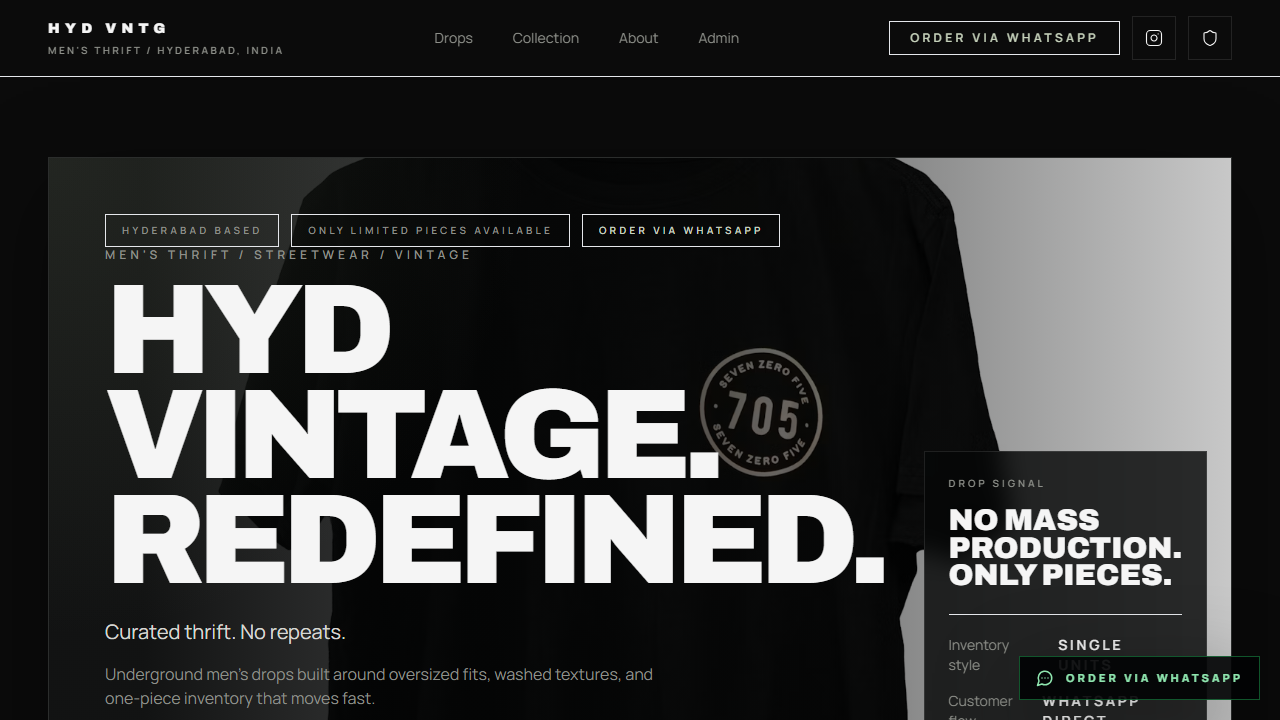
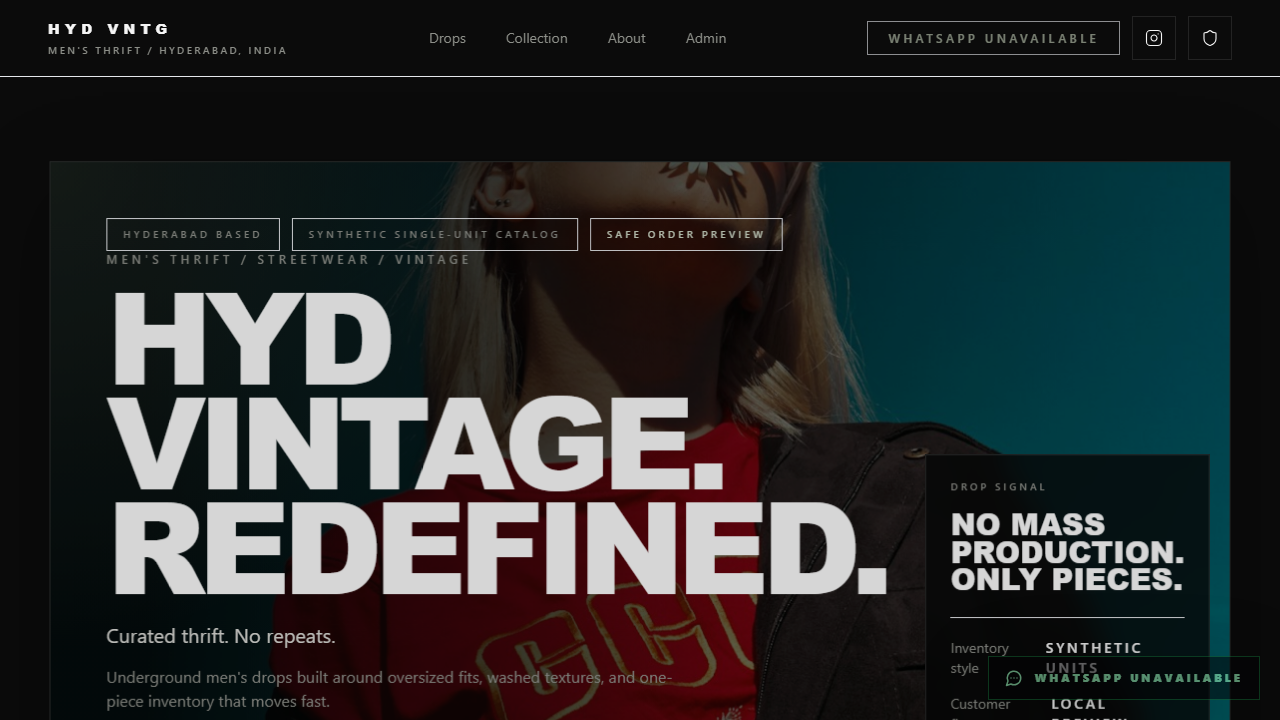
feat: synchronize HYD VNTG v1.0.0 evidence

diff --git a/lib/projects.ts b/lib/projects.ts
@@ -303,25 +303,25 @@ const source: Project[] = [
   {
     slug: "hyd-vntg-storefront",
     displayName: "HYD VNTG Storefront",
-    shortDescription: "A responsive vintage storefront prototype with fail-closed local demo administration.",
-    problem: "Small catalog concepts need a coherent browsing and cart experience without fake payment claims.",
-    targetUser: "Shoppers evaluating a frontend catalog prototype.",
-    solution: "A responsive React storefront with catalog, cart, and explicitly local/demo admin configuration.",
-    contribution: "Built the storefront and removed default credentials, fixed dependencies, verified the build, and packaged real video evidence.",
-    status: "Supporting prototype",
-    technologies: ["React", "Vite", "JavaScript"],
-    categories: ["Full Stack"],
+    shortDescription: "A responsive synthetic streetwear storefront with a safe local order preview and fail-closed provider boundaries.",
+    problem: "Small catalog prototypes need a credible browse-to-order workflow without implying payment, inventory, or messaging integrations are live.",
+    targetUser: "Reviewers evaluating a bounded storefront and order-preparation workflow.",
+    solution: "A responsive React storefront with deterministic single-unit fixtures, local product media, an explicit not-sent message preview, and optional provider adapters that stay disabled until configured.",
+    contribution: "Built and qualified the storefront workflow, removed placeholder handoffs, hardened local and Supabase admin boundaries, added deterministic tests, and published narrated release evidence.",
+    status: "v1.0.0 released storefront prototype",
+    technologies: ["React", "Vite", "JavaScript", "Vitest", "Playwright", "Supabase (optional)"],
+    categories: ["Full Stack", "Security"],
     repositoryUrl: `${owner}/hyd-vntg-storefront`,
     video: media("hyd-vntg"),
     videoPoster: "/assets/projects/hyd-vntg-storefront.png",
-    architecture: ["React client", "Local demo store"],
-    workflow: ["Browse catalog", "Manage cart", "Use configured local demo admin"],
-    technicalDecisions: ["No fallback credentials", "No fake payment flow"],
-    challenge: "Client-side admin behavior had to be described honestly and fail closed.",
-    testEvidence: ["Vite build", "0 production dependency vulnerabilities"],
-    securityNotes: ["Client-side admin is not a production authorization boundary"],
-    limitations: ["No production commerce backend"],
-    roadmap: ["Add browser workflow tests before deeper expansion"],
+    architecture: ["React client with deterministic local catalog fixtures", "Local message-preview boundary with optional validated WhatsApp handoff", "Optional Supabase adapter with server-assigned admin-role policy reference", "Repository-local catalog and walkthrough media"],
+    workflow: ["Browse and filter the synthetic catalog", "Inspect stock and choose a size", "Enter synthetic delivery details", "Generate a local preview explicitly marked not sent", "Inspect the fail-closed admin boundary"],
+    technicalDecisions: ["No placeholder WhatsApp or Instagram destination", "Unconfigured and unauthorized admin paths fail closed", "Supabase mutations never silently fall back to local writes", "No payment or fake order-success state"],
+    challenge: "The product needed to demonstrate a complete storefront interaction while keeping every external commerce, messaging, inventory, and authorization claim visibly bounded.",
+    testEvidence: ["9 deterministic unit tests", "3 applicable desktop/mobile Playwright workflows", "Vite production build and Storefront CI", "0 known npm vulnerabilities"],
+    securityNotes: ["Client-side local admin remains a browser-only demonstration boundary", "Supabase mode requires a server-assigned app_metadata admin role", "WhatsApp opens only for an explicitly configured 10-15 digit destination"],
+    limitations: ["No payment, reservation, fulfillment, customer account, live inventory, or production order backend", "Supabase policy deployment and provider ownership are not claimed"],
+    roadmap: ["Verify owned WhatsApp and Supabase environments before enabling either external boundary"],
     featured: false,
     displayOrder: 10,
     theme: { accent: "#db9464", glow: "#ffd0ae", signature: "store" },

diff --git a/tests/media-integrity.test.ts b/tests/media-integrity.test.ts
@@ -18,7 +18,7 @@ const recordings = [
   { directory: "workhub", duration: 342.72, narrated: true },
   { directory: "neutro", duration: 195.92, narrated: true },
   { directory: "shadowops", duration: 55.04, narrated: false },
-  { directory: "hyd-vntg", duration: 58.24, narrated: false },
+  { directory: "hyd-vntg", duration: 183.12, narrated: true },
   { directory: "parkalert", duration: 55.12, narrated: false }
 ] as const;
 
@@ -104,7 +104,7 @@ describe("public media integrity", () => {
         const file = assertExactPath(`media/${recording.directory}/${filename}`);
         expect(existsSync(file)).toBe(true);
         expect(statSync(file).size).toBeGreaterThan(100);
-        expect(readFileSync(file, "utf8").slice(0, 100)).not.toContain("version https://git-lfs.github.com/spec");
+        expect(readFileSync(file).subarray(0, 100).toString("utf8")).not.toContain("version https://git-lfs.github.com/spec");
       }
     }
     expect(existsSync(assertExactPath("media/cricket-web/poster.png"))).toBe(true);

diff --git a/docs/audits/PUBLIC_MEDIA_INVENTORY.md b/docs/audits/PUBLIC_MEDIA_INVENTORY.md
@@ -4,7 +4,7 @@ Verified: 21 July 2026 (Asia/Calcutta)
 
 Canonical site: <https://jashwanth-portfolio-ten.vercel.app>
 
-Portfolio source: `jashwanth-portfolio` at `b14dce6`
+Portfolio source: current `main` plus `phase3-hyd-vntg-portfolio-sync` (public merge pending)
 
 ## Scope and result
 
@@ -16,7 +16,7 @@ This inventory covers the active portfolio images, case-study screenshots, socia
 | Portfolio video packages and posters | 49 files | HTTP 200; `video/mp4`, `video/webm`, `text/vtt`, or `image/png`; non-zero | Working                                                     |
 | GitHub README thumbnails             |       13 | HTTP 200; `image/png`; non-zero; case-study target works                  | Working                                                     |
 | Tracked `docs/` images               |      187 | HTTP 200; correct image MIME; non-zero                                    | Working source evidence                                     |
-| GitHub release media                 |       42 | HTTP 200; non-zero; API MIME is correct                                   | Download-only; GitHub CDN forces `application/octet-stream` |
+| GitHub release media                 |       50 | HTTP 200; non-zero; API MIME is correct                                   | Download-only; GitHub CDN forces `application/octet-stream` |
 
 Active playback no longer uses GitHub `/blob/` pages, GitHub raw media, Windows paths, localhost, private repositories, or release-attachment URLs. All inline video/image/caption delivery is same-origin under `/media/` or `/assets/`.
 
@@ -34,13 +34,13 @@ Every package below uses the exact four deployed paths `demo.mp4`, `demo.webm`, 
 | Heart Analysis              | `Heart-Stock-Analysis/docs/demo/demo.*`                 | `/media/heart-analysis/`              | 4:17.488 | VP9/Opus      | H.264/AAC       | 7,140,140 / 6,773,742 / 1,698 / 187,260   | Pass                      | Reused; transcoded only                              |
 | Zettalogix                  | `zettalogix-migration-suite/docs/demo/demo.*`           | `/media/zettalogix/`                  | 5:40.008 | VP9/Opus      | H.264/AAC       | 5,063,735 / 8,043,809 / 1,763 / 279,776   | Pass                      | Reused; transcoded only                              |
 | WorkHub OS                  | `Work_OS/docs/demo/demo.*`                              | `/media/workhub/`                     | 5:42.728 | VP9/Opus      | H.264/AAC       | 13,451,842 / 10,648,238 / 1,491 / 375,245 | Pass                      | Reused; transcoded only                              |
-| Neutro                      | `Neutro/docs/demo/demo.*`                               | `/media/neutro/`                      | 0:55.040 | VP8, no audio | H.264, no audio | 520,039 / 1,894,256 / 395 / 40,486        | Pass                      | Reused; captioned; no fake audio added               |
+| Neutro                      | `Neutro/docs/demo/demo.*`                               | `/media/neutro/`                      | 3:15.920 | VP8/Opus      | H.264/AAC       | 4,999,311 / 13,897,506 / 1,760 / 72,853   | Pass                      | Phase 3 narrated release walkthrough                 |
 | ShadowOps                   | `shadowops-hackathon/docs/demo/demo.*`                  | `/media/shadowops/`                   | 0:55.040 | VP8, no audio | H.264, no audio | 552,893 / 2,413,675 / 409 / 50,519        | Pass                      | Reused; captioned; no fake audio added               |
-| HYD VNTG                    | `thrifty_vintagegarage/docs/demo/demo.*`                | `/media/hyd-vntg/`                    | 0:58.240 | VP8, no audio | H.264, no audio | 806,351 / 2,103,053 / 408 / 342,511       | Pass                      | Reused; captioned; no fake audio added               |
+| HYD VNTG                    | `thrifty_vintagegarage/docs/demo/demo.*`                | `/media/hyd-vntg/`                    | 3:03.120 | VP8/Opus      | H.264/AAC       | 4,962,016 / 11,684,036 / 1,294 / 428,569 | Pending deploy            | Phase 3 narrated v1.0.0 workflow replacement         |
 | ParkAlert                   | `Parking-Alert-/docs/demo/demo.*`                       | `/media/parkalert/`                   | 0:55.120 | VP8, no audio | H.264, no audio | 416,791 / 1,636,905 / 420 / 72,228        | Pass                      | Reused; captioned; no fake audio added               |
 | Cricket Web poster          | `Cricket_chatbot_frontend/docs/demo/demo-thumbnail.png` | `/media/cricket-web/poster.png`       |      n/a | n/a           | n/a             | 154,863                                   | Pass                      | Poster retained; outdated web recording not promoted |
 
-The portfolio, Neutro, ShadowOps, HYD VNTG, and ParkAlert recordings are silent source captures with caption files. This phase did not invent narration or add a deceptive silent audio stream. The user explicitly prohibited new recording in Phase 2.
+At Phase 2 close, the portfolio, Neutro, ShadowOps, HYD VNTG, and ParkAlert recordings were silent source captures with caption files; Phase 2 did not invent narration or create replacement recordings. The later authorized serial project program replaced Neutro and HYD VNTG with reviewed narrated walkthroughs after their workflows materially changed. The portfolio, ShadowOps, and ParkAlert sources remain honestly labeled as silent.
 
 ## Portfolio image and social-card manifest
 
@@ -52,8 +52,8 @@ All paths below are served from the canonical site. Actual MIME equals expected 
 | `/assets/icons/favicon.svg`                        |     594 | vector     | `image/svg+xml` | Favicon / Working                             |
 | `/assets/projects/cricket-intelligence.png`        | 157,019 | 1280×739   | `image/png`     | Project image / Working                       |
 | `/assets/projects/heart-analysis.png`              |  38,389 | 1280×720   | `image/png`     | Project image / Working                       |
-| `/assets/projects/hyd-vntg-storefront.png`         | 342,511 | 1280×720   | `image/png`     | Project image / Repaired from existing poster |
-| `/assets/projects/neutro.png`                      |  40,486 | 1280×720   | `image/png`     | Project image / Working                       |
+| `/assets/projects/hyd-vntg-storefront.png`         | 428,569 | 1280×720   | `image/png`     | Project image / Current v1.0.0 poster         |
+| `/assets/projects/neutro.png`                      |  72,853 | 1280×720   | `image/png`     | Project image / Current v0.6.0 poster         |
 | `/assets/projects/nira.png`                        | 221,185 | 1280×640   | `image/png`     | Project image / Working                       |
 | `/assets/projects/niyamguard.png`                  | 243,767 | 1280×640   | `image/png`     | Project image / Working                       |
 | `/assets/projects/parking-alert.png`               |  72,228 | 1280×720   | `image/png`     | Project image / Working                       |
@@ -75,7 +75,7 @@ All paths below are served from the canonical site. Actual MIME equals expected 
 | `/assets/social/workhub-os.png`                    | 333,662 | 1200×630   | `image/png`     | Case social card / Working                    |
 | `/assets/social/zettalogix-migration-suite.png`    | 341,494 | 1200×630   | `image/png`     | Case social card / Working                    |
 
-The HYD VNTG card previously used a 1280×6541 full-page image inside a fixed frame. It was the only extreme-aspect active image and was replaced with the already-existing 1280×720 demo poster. No screenshot was recorded or generated.
+The HYD VNTG card previously used a 1280×6541 full-page image inside a fixed frame. Phase 2 replaced it with the then-existing 1280×720 poster without recording or generating a screenshot. The later authorized v1.0.0 workflow replacement supplied the current inspected 1280×720 poster.
 
 ## GitHub README thumbnails and playback targets
 
@@ -92,7 +92,7 @@ The HYD VNTG card previously used a 1280×6541 full-page image inside a fixed fr
 | `workhub-os`                  | `docs/demo/demo-thumbnail.png`            | `/work/workhub-os/`                  | MP4, WebM, VTT             | Working                                         |
 | `Neutro`                      | `docs/demo/demo-thumbnail.png`            | `/work/neutro/`                      | MP4, WebM, VTT             | Working                                         |
 | `shadowops-hackathon`         | `docs/demo/demo-thumbnail.png`            | `/work/shadowops/`                   | MP4, WebM, VTT             | Working                                         |
-| `hyd-vntg-storefront`         | `docs/demo/demo-thumbnail.png`            | `/work/hyd-vntg-storefront/`         | MP4, WebM, VTT             | Working                                         |
+| `hyd-vntg-storefront`         | `docs/demo/demo-thumbnail.png`            | Repository MP4                       | MP4, WebM, VTT, case study | Working                                         |
 | `parkalert-india`             | Same-origin `/media/parkalert/poster.png` | `/work/parking-alert/`               | MP4, WebM, VTT             | Working; default branch has no local demo files |
 
 The profile README uses case-study playback plus direct same-origin MP4/WebM/VTT links for its six highlighted systems. No README or profile video link uses `/blob/`, raw GitHub media, localhost, a Windows path, or a private repository.
@@ -113,6 +113,8 @@ The profile README uses case-study playback plus direct same-origin MP4/WebM/VTT
 | Heart Analysis v1.0.0              |                 4 | Yes         | Correct         | HTTP 200, forced `application/octet-stream` | Download only            |
 | Zettalogix v0.3.0                  |                 4 | Yes         | Correct         | HTTP 200, forced `application/octet-stream` | Download only            |
 | WorkHub OS v1.1.0                  |                 4 | Yes         | Correct         | HTTP 200, forced `application/octet-stream` | Download only            |
+| Neutro v0.6.0                      |                 4 | Yes         | Correct         | HTTP 200, forced `application/octet-stream` | Download only            |
+| HYD VNTG v1.0.0                    |                 4 | Yes         | Correct         | HTTP 200, forced `application/octet-stream` | Download only            |
 
 GitHub release assets retain correct API metadata (`video/mp4`, `video/webm`, `text/vtt`, `image/png`) but GitHub's logged-out release CDN deliberately serves attachments as `application/octet-stream`. They are retained as downloadable release evidence and are not used for inline playback, captions, posters, or README thumbnails.
 

diff --git a/docs/audits/FINAL_MEDIA_VERIFICATION.md b/docs/audits/FINAL_MEDIA_VERIFICATION.md
@@ -10,13 +10,15 @@ Detailed inventory: [PUBLIC_MEDIA_INVENTORY.md](PUBLIC_MEDIA_INVENTORY.md)
 
 Phase 2 media visibility and delivery repair is complete. No new product features, Product Design exploration, screenshots, or recordings were created.
 
+The later authorized serial project program replaced Neutro and HYD VNTG media only after their qualified workflows made the Phase 2 captures outdated. Neutro is publicly verified; the current HYD VNTG synchronization branch carries the v1.0.0 narrated package and marks production delivery pending until merge/deploy checks pass.
+
 - All 75 canonical portfolio image/video/caption assets return HTTP 200, non-zero bytes, and their exact expected MIME type while logged out.
 - All 11 case-study players work in logged-out Chrome desktop, Edge desktop with WebGL disabled, and a throttled Chrome mobile context.
 - All players expose native controls, `playsInline`, MP4 then WebM fallback, captions, poster, direct open/download/caption/repository links, loading state, and a visible error fallback.
 - Playback, seeking, caption cues, native fullscreen entry/exit, viewport containment, homepage/project image decoding, and fallback recovery were exercised.
 - All 13 README thumbnails return HTTP 200 with `image/png` and open the verified case-study or portfolio media target.
 - All 187 tracked documentation images return HTTP 200 with the correct image MIME.
-- All 42 release-media downloads return HTTP 200 and non-zero bytes. Their GitHub API MIME is correct; GitHub's download CDN forces generic attachment MIME, so none is used inline.
+- All 50 release-media downloads return HTTP 200 and non-zero bytes. Their GitHub API MIME is correct; GitHub's download CDN forces generic attachment MIME, so none is used inline.
 - No active media link uses GitHub `/blob/`, raw GitHub playback, localhost, a Windows path, a private repository, or a stale Cricket Web recording.
 
 ## Repairs delivered
@@ -44,7 +46,7 @@ Phase 2 media visibility and delivery repair is complete. No new product feature
 | `npm run build`                | Static production generation, all 11 case studies                                                                                               | Passed, 18 routes generated      |
 | `npm run check:links`          | Built internal links and critical public evidence URLs                                                                                          | 0 broken                         |
 | `npm run check:media:public`   | All 75 deployed assets                                                                                                                          | HTTP 200, correct MIME, non-zero |
-| `npm run check:media:github`   | 42 release assets, 13 README thumbnails, 187 documentation images                                                                               | Passed                           |
+| `npm run check:media:github`   | 50 release assets, 13 README thumbnails, 187 documentation images                                                                               | Passed                           |
 | `npm run check:media:browsers` | 11 players × Chrome desktop, Edge desktop/WebGL disabled, Chrome mobile/throttled; forced failure fallback                                      | Passed                           |
 
 ## Browser evidence
@@ -101,7 +103,7 @@ README media-link commits:
 
 ## Honest limitations and deferred recording work
 
-- The portfolio, Neutro, ShadowOps, HYD VNTG, and ParkAlert source recordings have no audio stream. They have captions and are labeled without a narration claim. Adding narration would require a new recording/editing phase and was prohibited in this phase.
+- At Phase 2 close, the portfolio, Neutro, ShadowOps, HYD VNTG, and ParkAlert sources had no audio stream and were labeled without narration claims. The later authorized serial project program replaced Neutro and HYD VNTG with reviewed narrated walkthroughs after their qualified workflows changed; the portfolio, ShadowOps, and ParkAlert remain silent and captioned.
 - The older Cricket Web recording remains historical repository evidence but is not an active public playback source because it is out of date.
 - GitHub release download responses cannot be made inline-media MIME from repository code. Correct inline delivery is provided by the canonical same-origin site instead.
 - No private duplicate media was published.